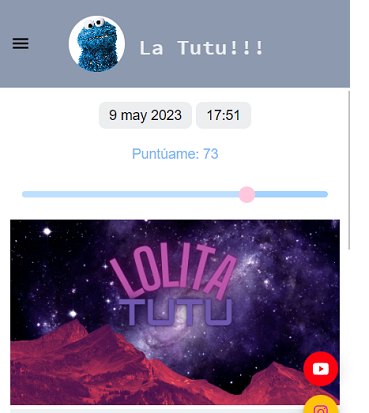
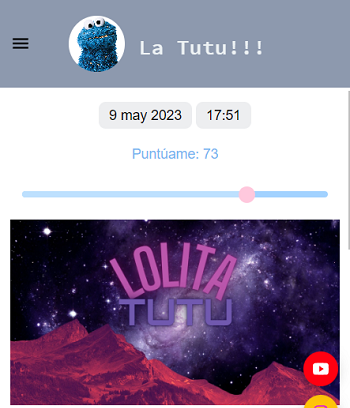
🌱 Cambio(icono):de ver demo

diff --git a/src/styles.scss b/src/styles.scss
@@ -360,7 +360,7 @@ a:not([href]):not([tabindex]) {
 
 .btn-downloadFoto {
   &::before {
-    content: "\f030";
+    content: "\f03d";
     font-family: "Font Awesome 5 Free";
     top: 50%;
     right: 10px;

diff --git a/src/app/shared/components/modal/modal.component.html b/src/app/shared/components/modal/modal.component.html
@@ -31,5 +31,5 @@
   class="btn btn-downloadFoto icon-github-alt text-center mb-2 me-2"
   (click)="openBackDropCustomClass(content)"
 >
-  Ver
+  Ver Demo
 </button>
